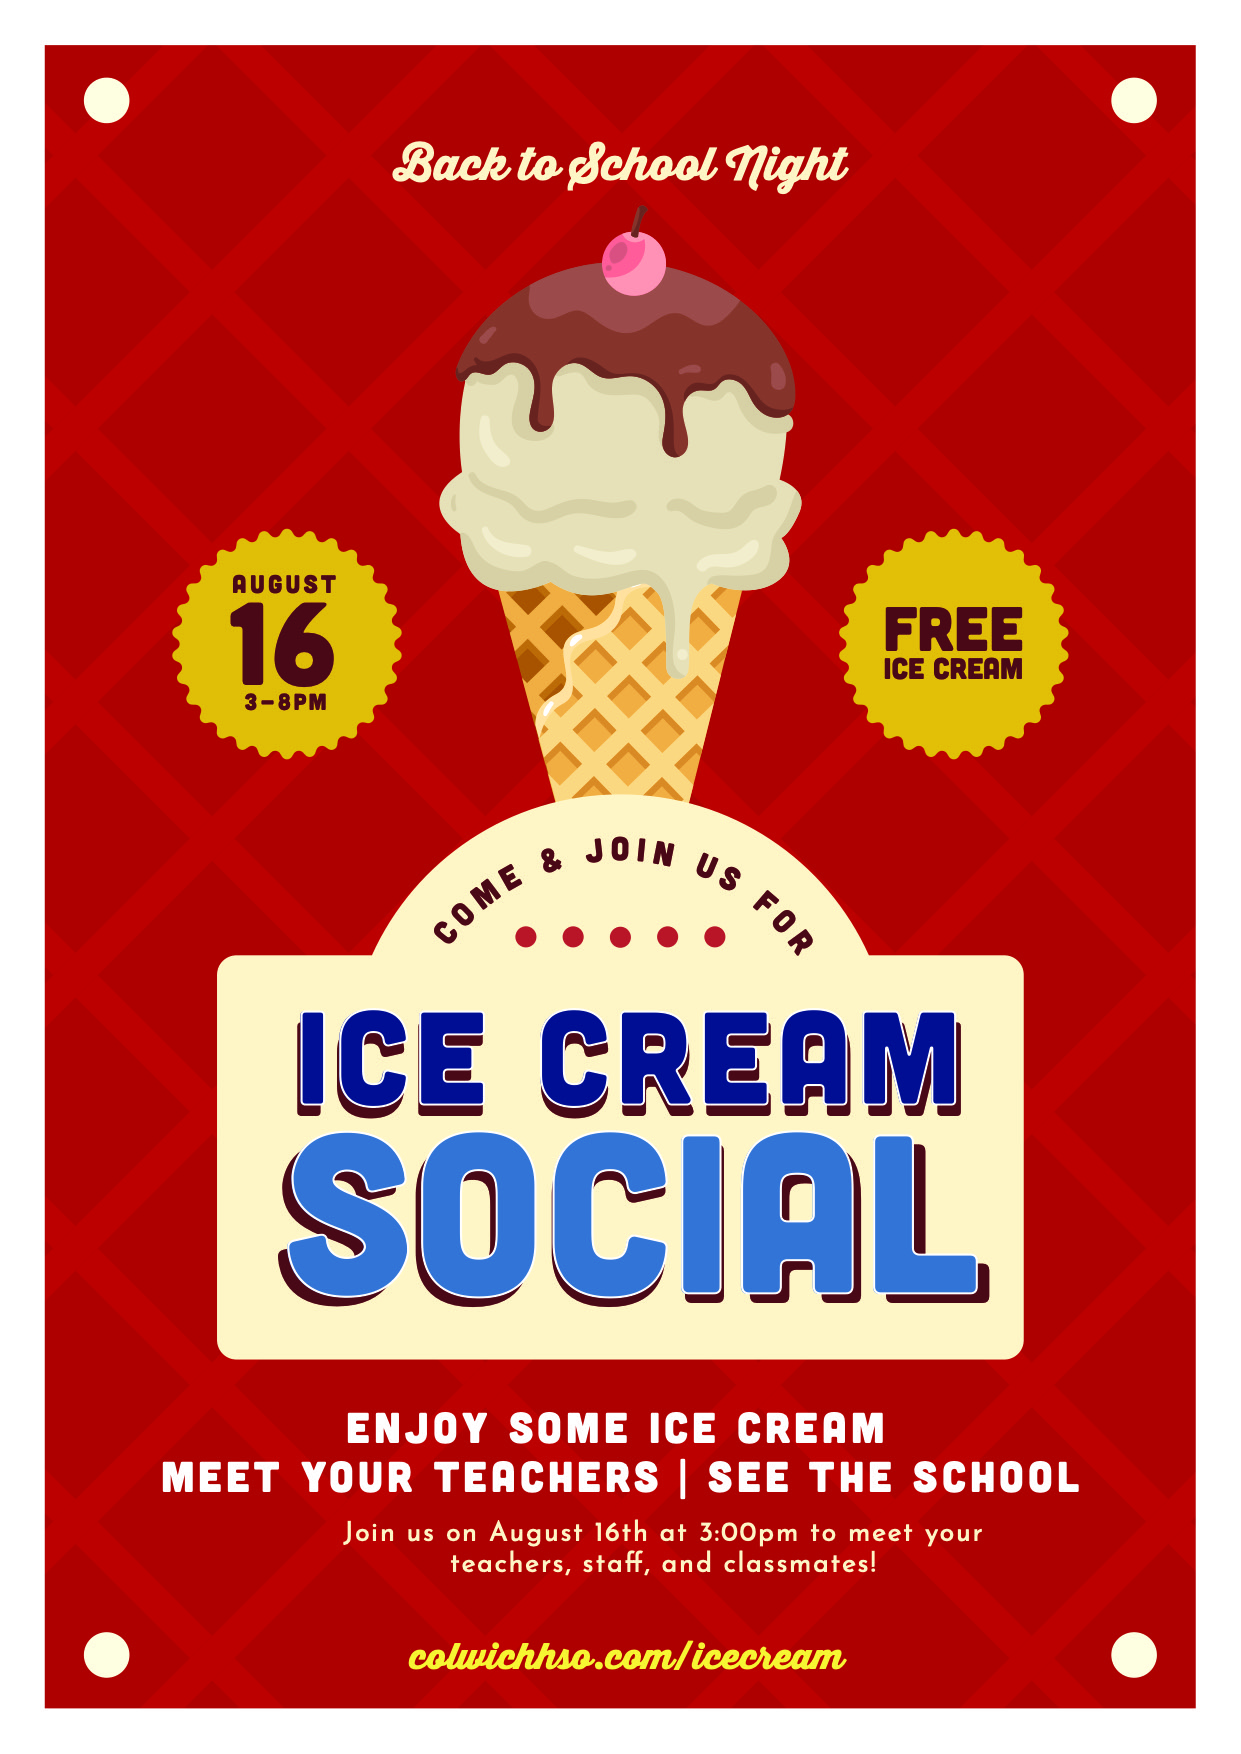
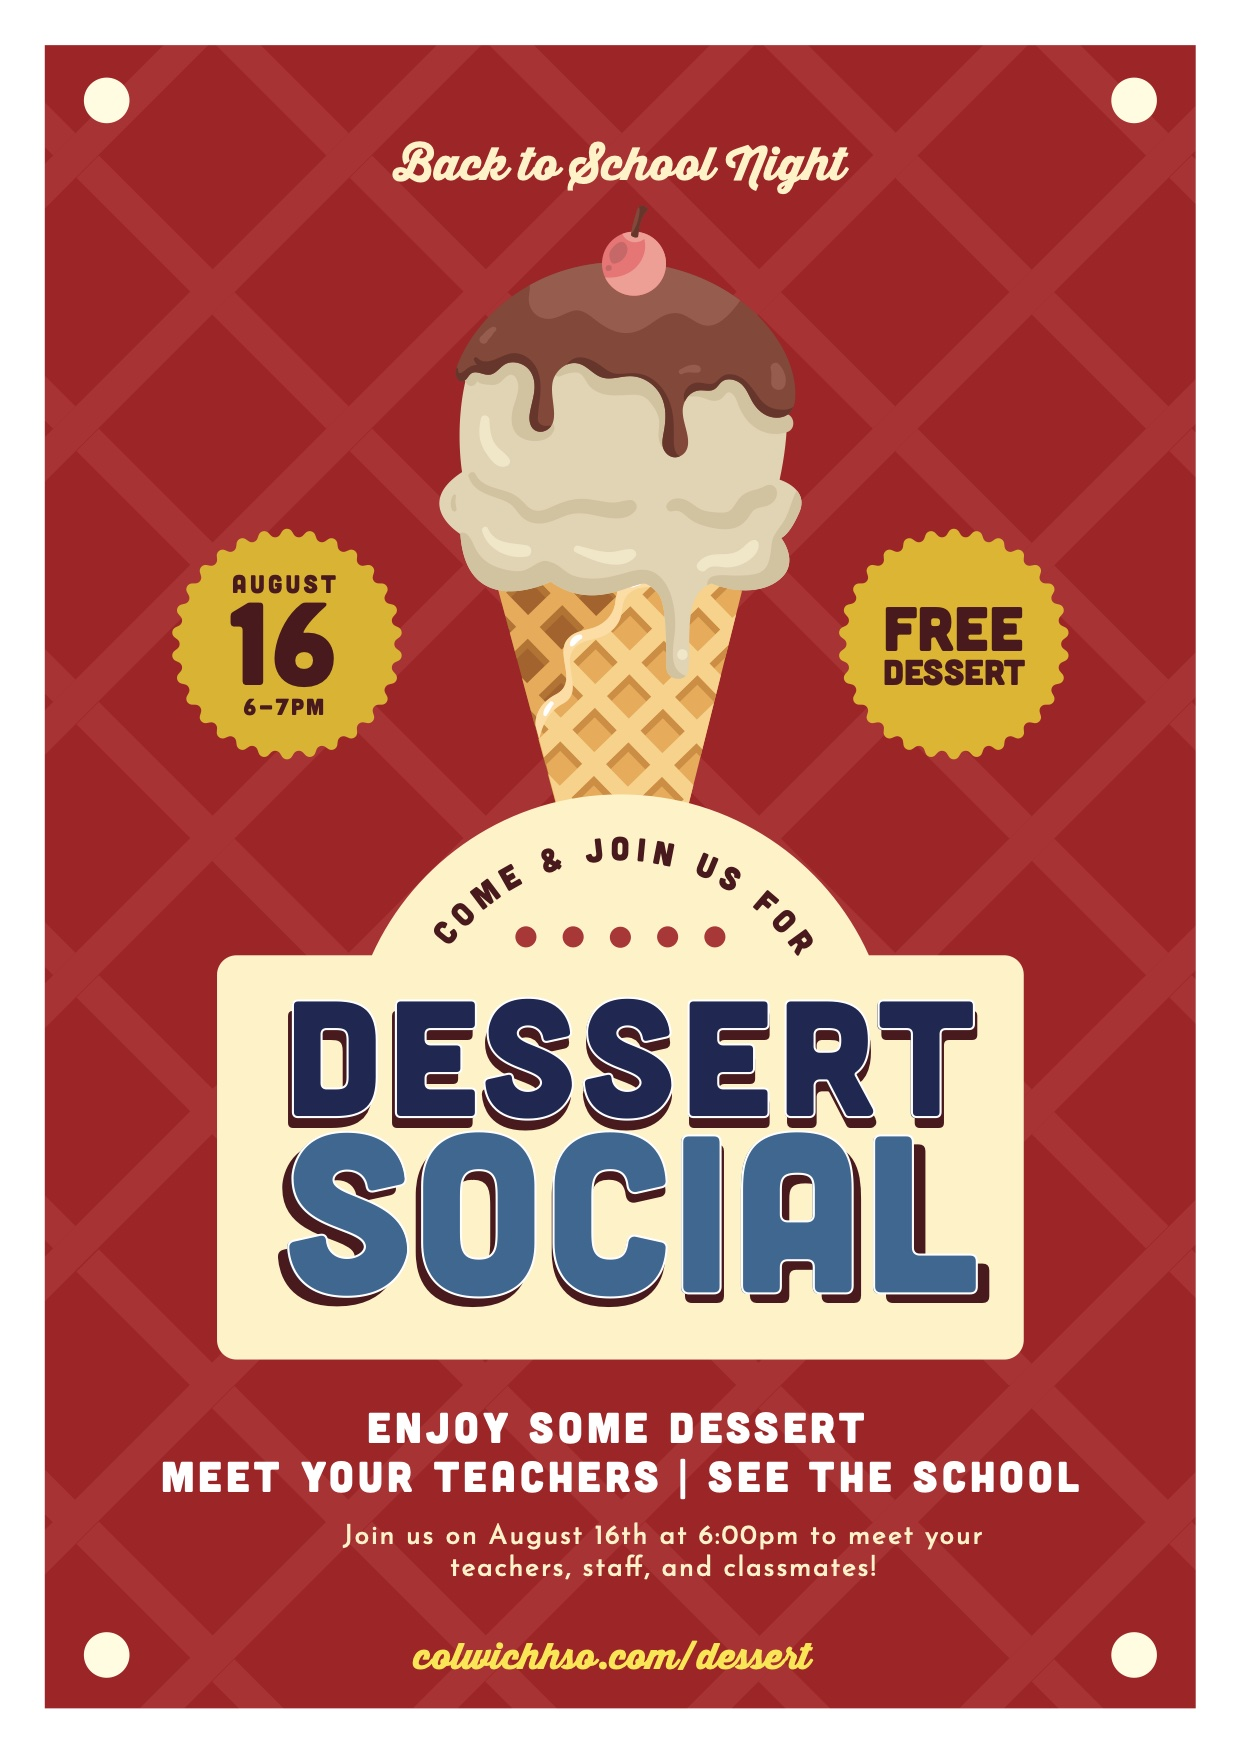
saving

diff --git a/content/events/icecreamsocial.md b/content/events/icecreamsocial.md
@@ -1,12 +1,12 @@
 ---
-title: Ice Cream Social 🍦
+title: Dessert Social 🍪
 description: Join us for tasty treats and socializing before school starts!
 type: events
 event_date: 2022-08-16 5:45:00 +0000
 url: "/dessert"
 fullUrl: "https://colwichhso.com/dessert"
 pageImage: "https://colwichhso.com/og_img.png"
-faq_category: icecream
+faq_category: dessert
 ctatext: Add To Your Calendar
 ctalink: /redesign
 ctaicon: calendar
@@ -25,4 +25,4 @@ polaroid:
 - /images/flyers/IceCreamSocialWeb.jpg
 - /images/flyers/IceCreamSocialWeb.jpg
 ---
-Back to School night! We hope to see you on **August 16th** between 3:00pm-6:00pm. Stop by and meet your teachers, staff and classmates!
+Back to School night! We hope to see you on **August 16th** between 6:00pm-7:00pm. Stop by and meet your teachers, staff and classmates!

diff --git a/content/faq/dessertsocial/q1.md b/content/faq/dessertsocial/q1.md
@@ -1,0 +1,6 @@
+---
+question: What, when and where is the Dessert Social?
+type: faq
+faq_category: dessert
+---
+This event happens on Back to School night every year from 6-7 pm.  After you meet your teacher and drop off your school supplies, head to the school cafeteria for a sweet treat and run into other CES parents and students. There will also be an opportunity to take a picture at the photo booth. 

diff --git a/content/faq/dessertsocial/q5.md b/content/faq/dessertsocial/q5.md
@@ -1,0 +1,6 @@
+---
+question: What is a photo booth?
+type: faq
+faq_category: dessert
+---
+There is a designed area decorated with a school themed backdrop and balloons. You can use your own camera to take a picture of your whole family or just your child. Say Cheese!

diff --git a/content/faq/dessertsocial/q3.md b/content/faq/dessertsocial/q3.md
@@ -1,0 +1,6 @@
+---
+question: What will be served?
+type: faq
+faq_category: dessert
+---
+This can vary from year to year. It could be cookies, cupcakes, ice cream or some other sweet treat! Come and find out! 

diff --git a/content/faq/dessertsocial/q4.md b/content/faq/dessertsocial/q4.md
@@ -1,0 +1,6 @@
+---
+question: Are there allergy friendly alternative treats? 
+type: faq
+faq_category: dessert
+---
+Yes. There will be an allergy friendly treat. Please ask a HSO volunteer what is available. 

diff --git a/content/faq/dessertsocial/q2.md b/content/faq/dessertsocial/q2.md
@@ -1,0 +1,6 @@
+---
+question: Who can attend?
+type: faq
+faq_category: dessert
+---
+All parents, guardians and students may attend and get a sweet treat! 
